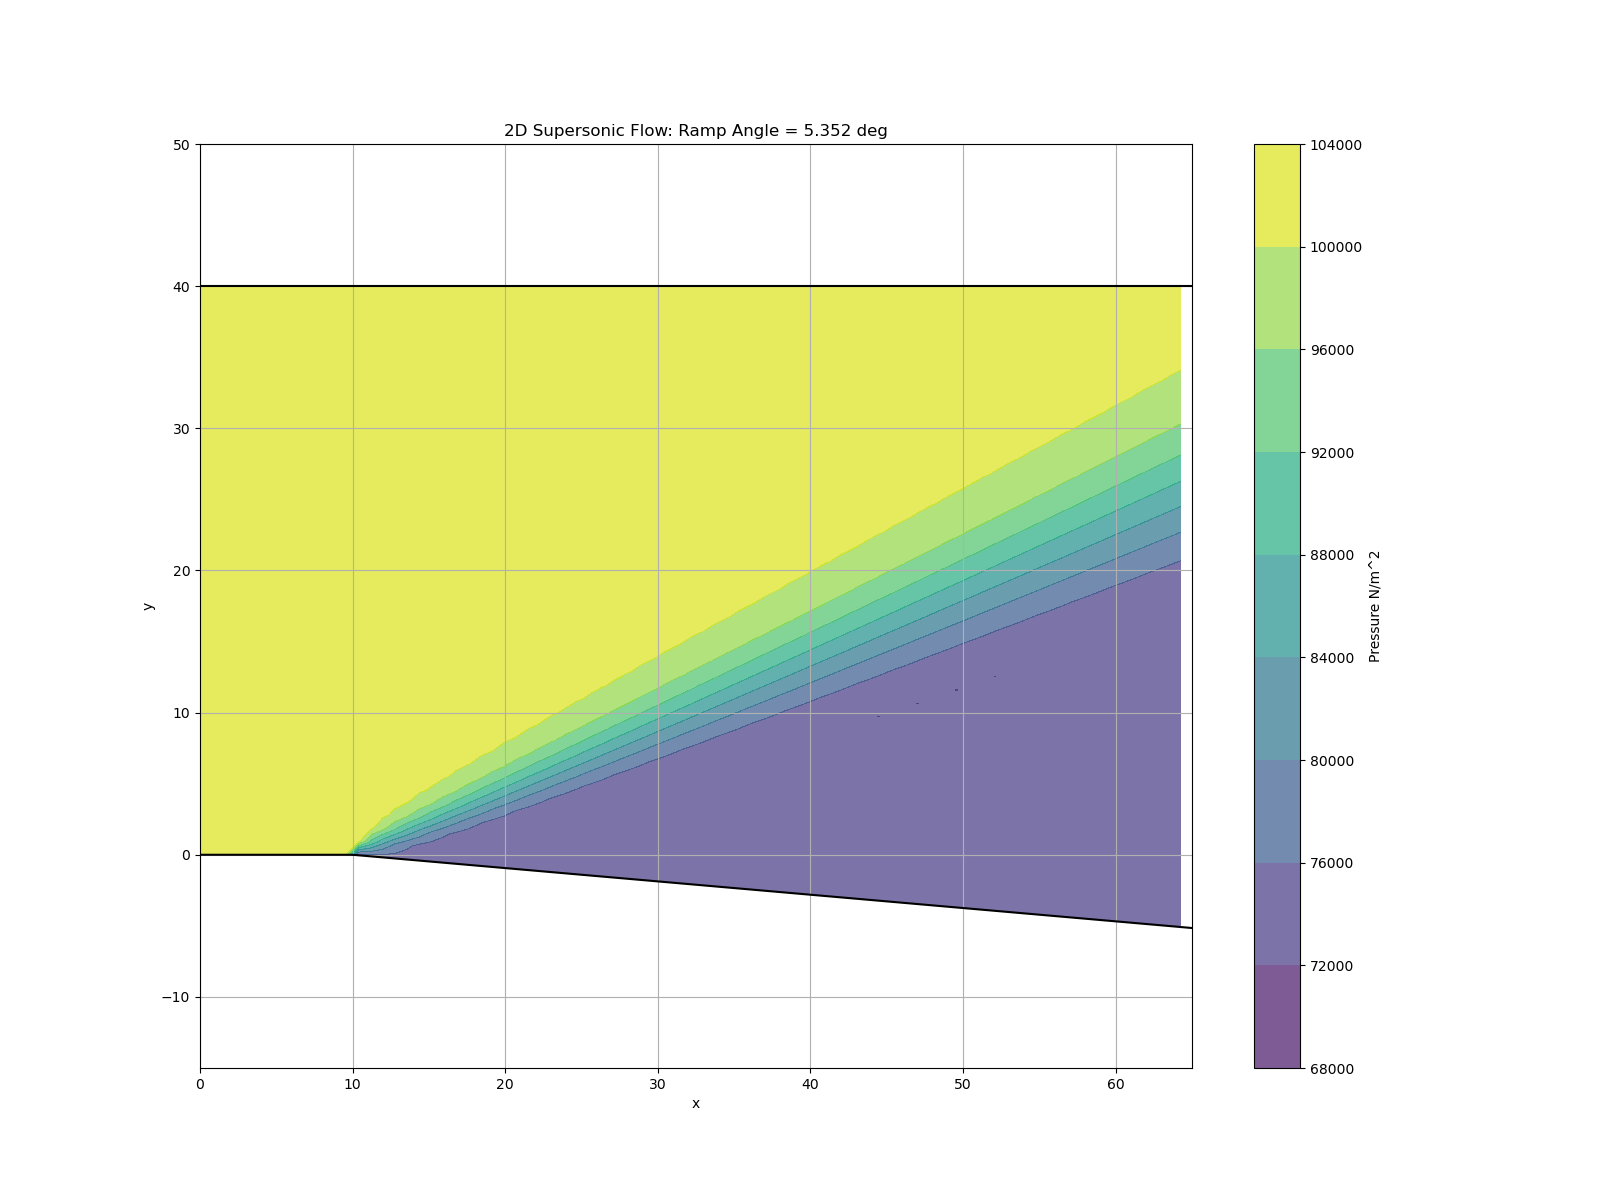
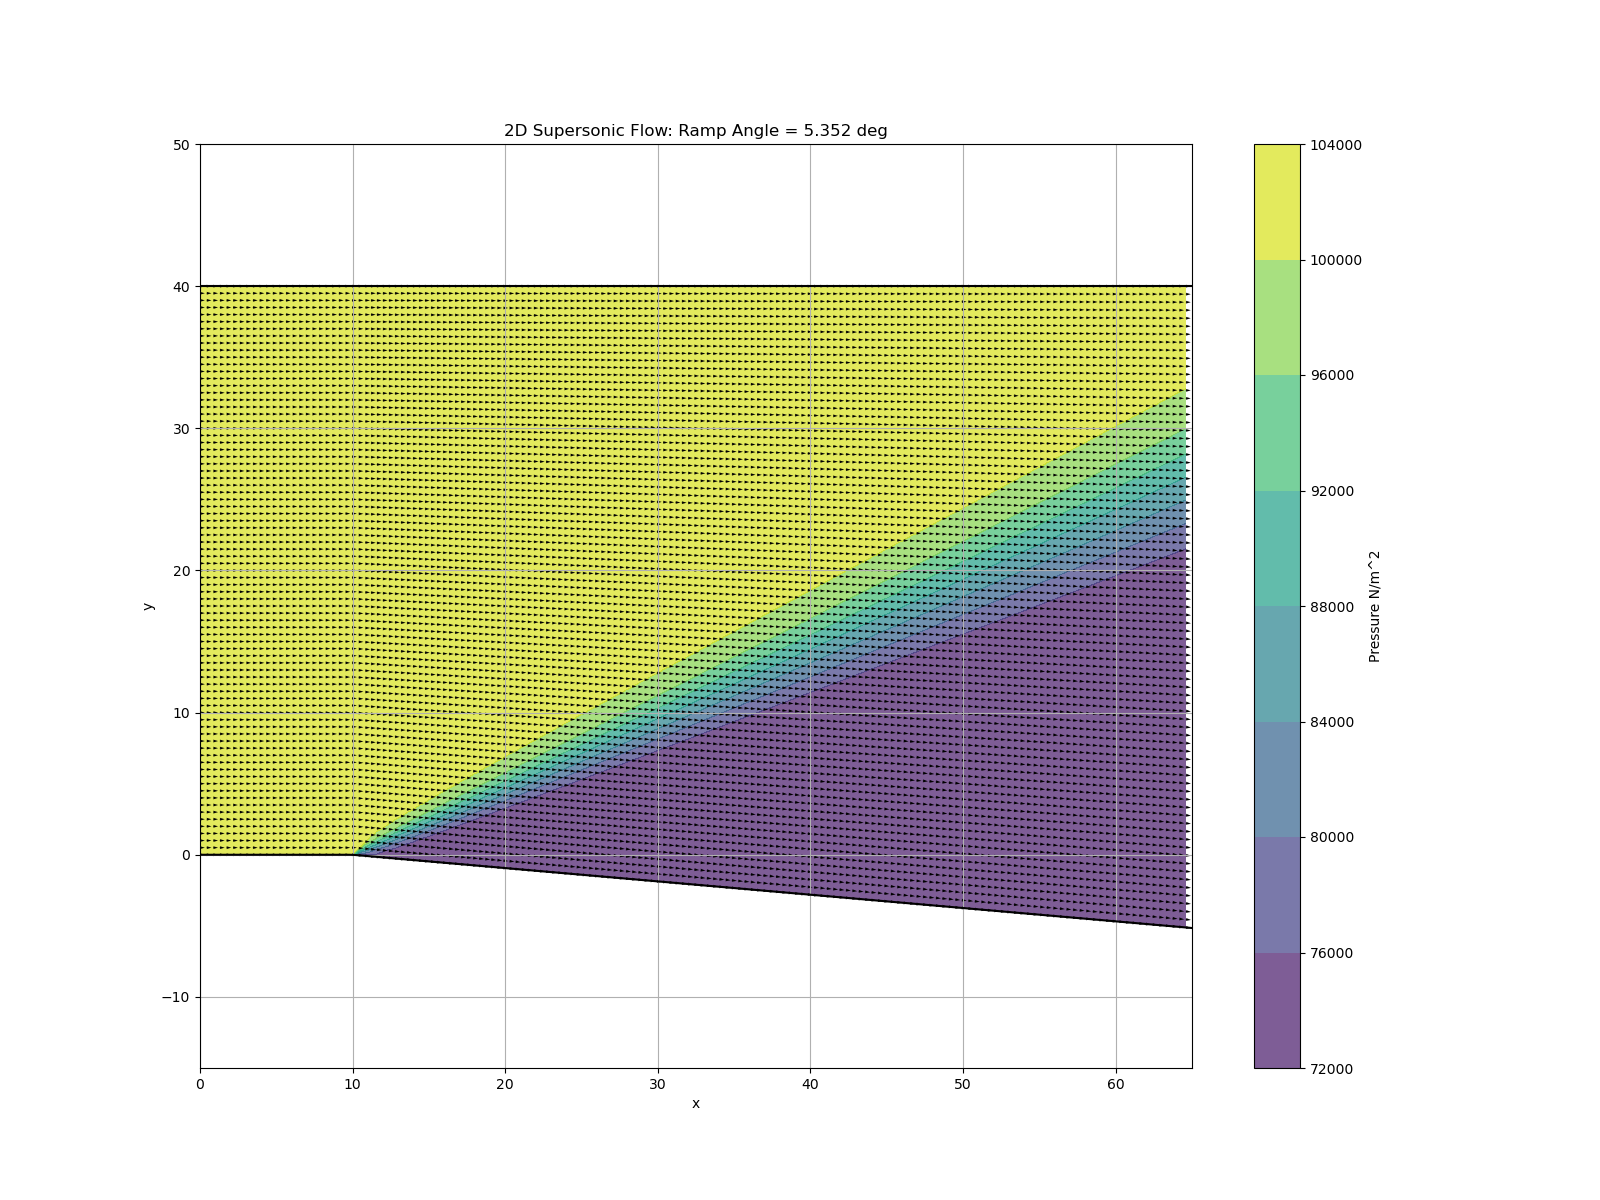
change pm1

diff --git a/Prandtl-Meyer/pm2.py b/Prandtl-Meyer/pm2.py
@@ -201,7 +201,6 @@ def macCormack(rho, u, v, p, T, Ma, x):
     F_rhs_bar = np.zeros((F.shape))
     for i in range(4):
         F_rhs_bar[i][1:] = d_eta_d_x[1:]*(F_bar[i][:-1]-F_bar[i][1:])/d_eta+1/h*(G_bar[i][:-1]-G_bar[i][1:])/d_eta
-        # 单侧差分
         F_rhs_bar[i][0] = d_eta_d_x[0]*(F_bar[i][0]-F_bar[i][1])/d_eta+1/h*(G_bar[i][0]-G_bar[i][1])/d_eta
     
     for i in range(4):
@@ -257,7 +256,7 @@ if __name__=="__main__":
         if i <10:
             hh[index] = 40
         else:
-            hh[index] = 40+np.tan(theta_rad)*(xx[index]-10)
+            hh[index] = 40+np.tan(0.09341002)*(xx[index]-10)
         index = index +1
     #plot geometry
     plt.figure(figsize=(16,12))
